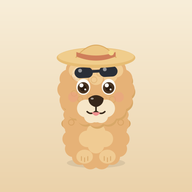
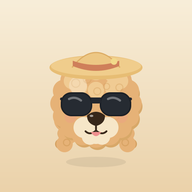
Head-only labradoodle med store solbriller (fjern krop)
Claude-Session: https://claude.ai/code/session_01SXHKkzE7Wiq4wmZVvCX5oT

Changed region(s): [[0.25, 0.2188, 0.75, 0.9062]]

diff --git a/ferie-kalender/index.html b/ferie-kalender/index.html
@@ -373,7 +373,7 @@
     <a href="#" onclick="document.getElementById('importFile').click();return false">Importér</a> ·
     <a href="#" onclick="resetAll();return false">Nulstil</a>
     <input type="file" id="importFile" accept="application/json" style="display:none" onchange="importData(event)">
-    <div class="ver">version 26</div>
+    <div class="ver">version 27</div>
   </footer>
 </div>
 

diff --git a/ferie-kalender/sw.js b/ferie-kalender/sw.js
@@ -1,6 +1,6 @@
 /* Service worker – gør appen installerbar og brugbar offline.
    App-skallen caches; Firebase/netværkskald får altid lov at gå til nettet. */
-const CACHE = "korfu-ferie-v26";
+const CACHE = "korfu-ferie-v27";
 const ASSETS = [
   "./",
   "./index.html",
